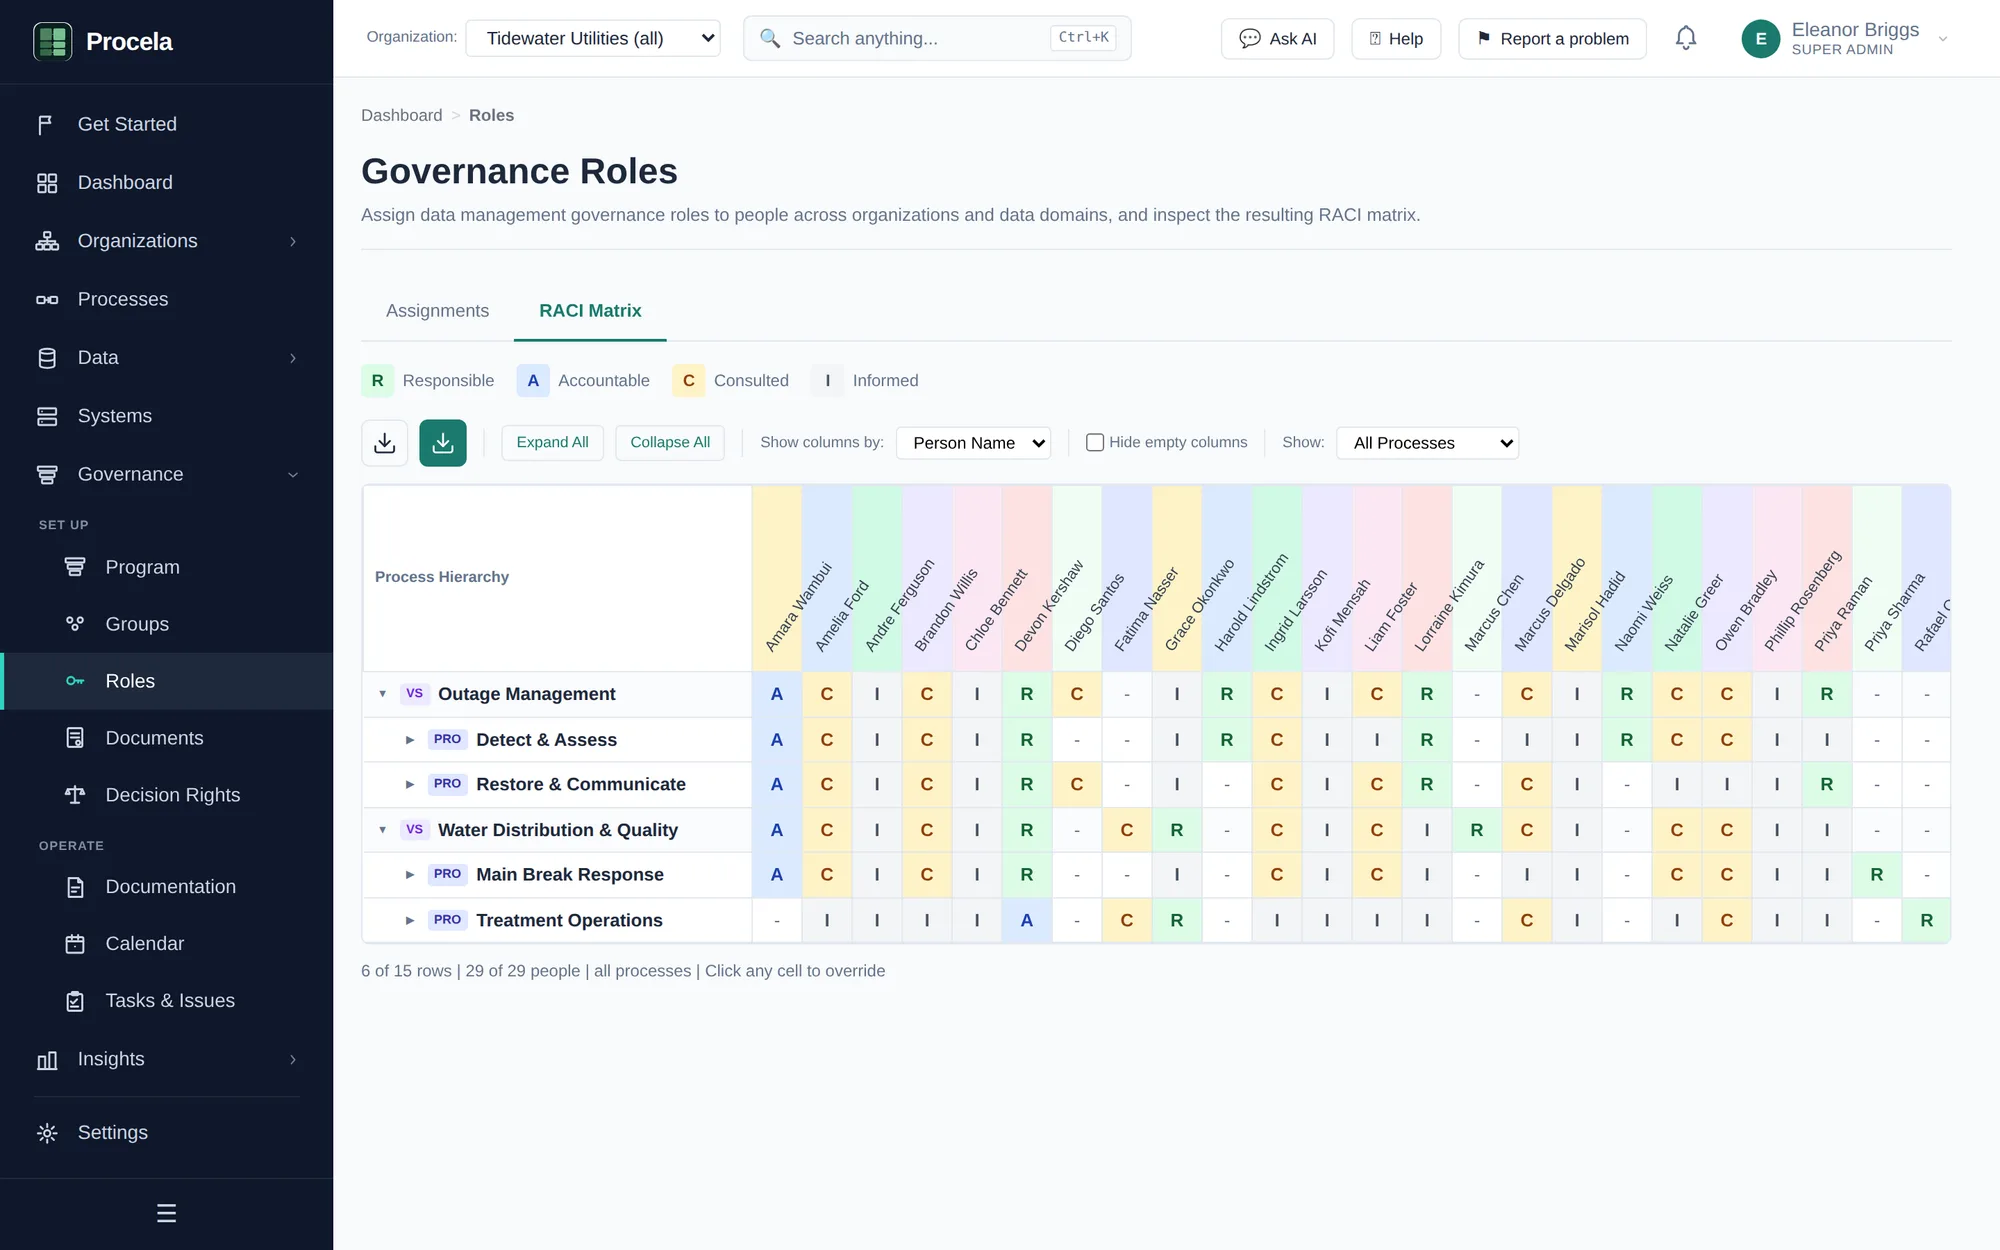
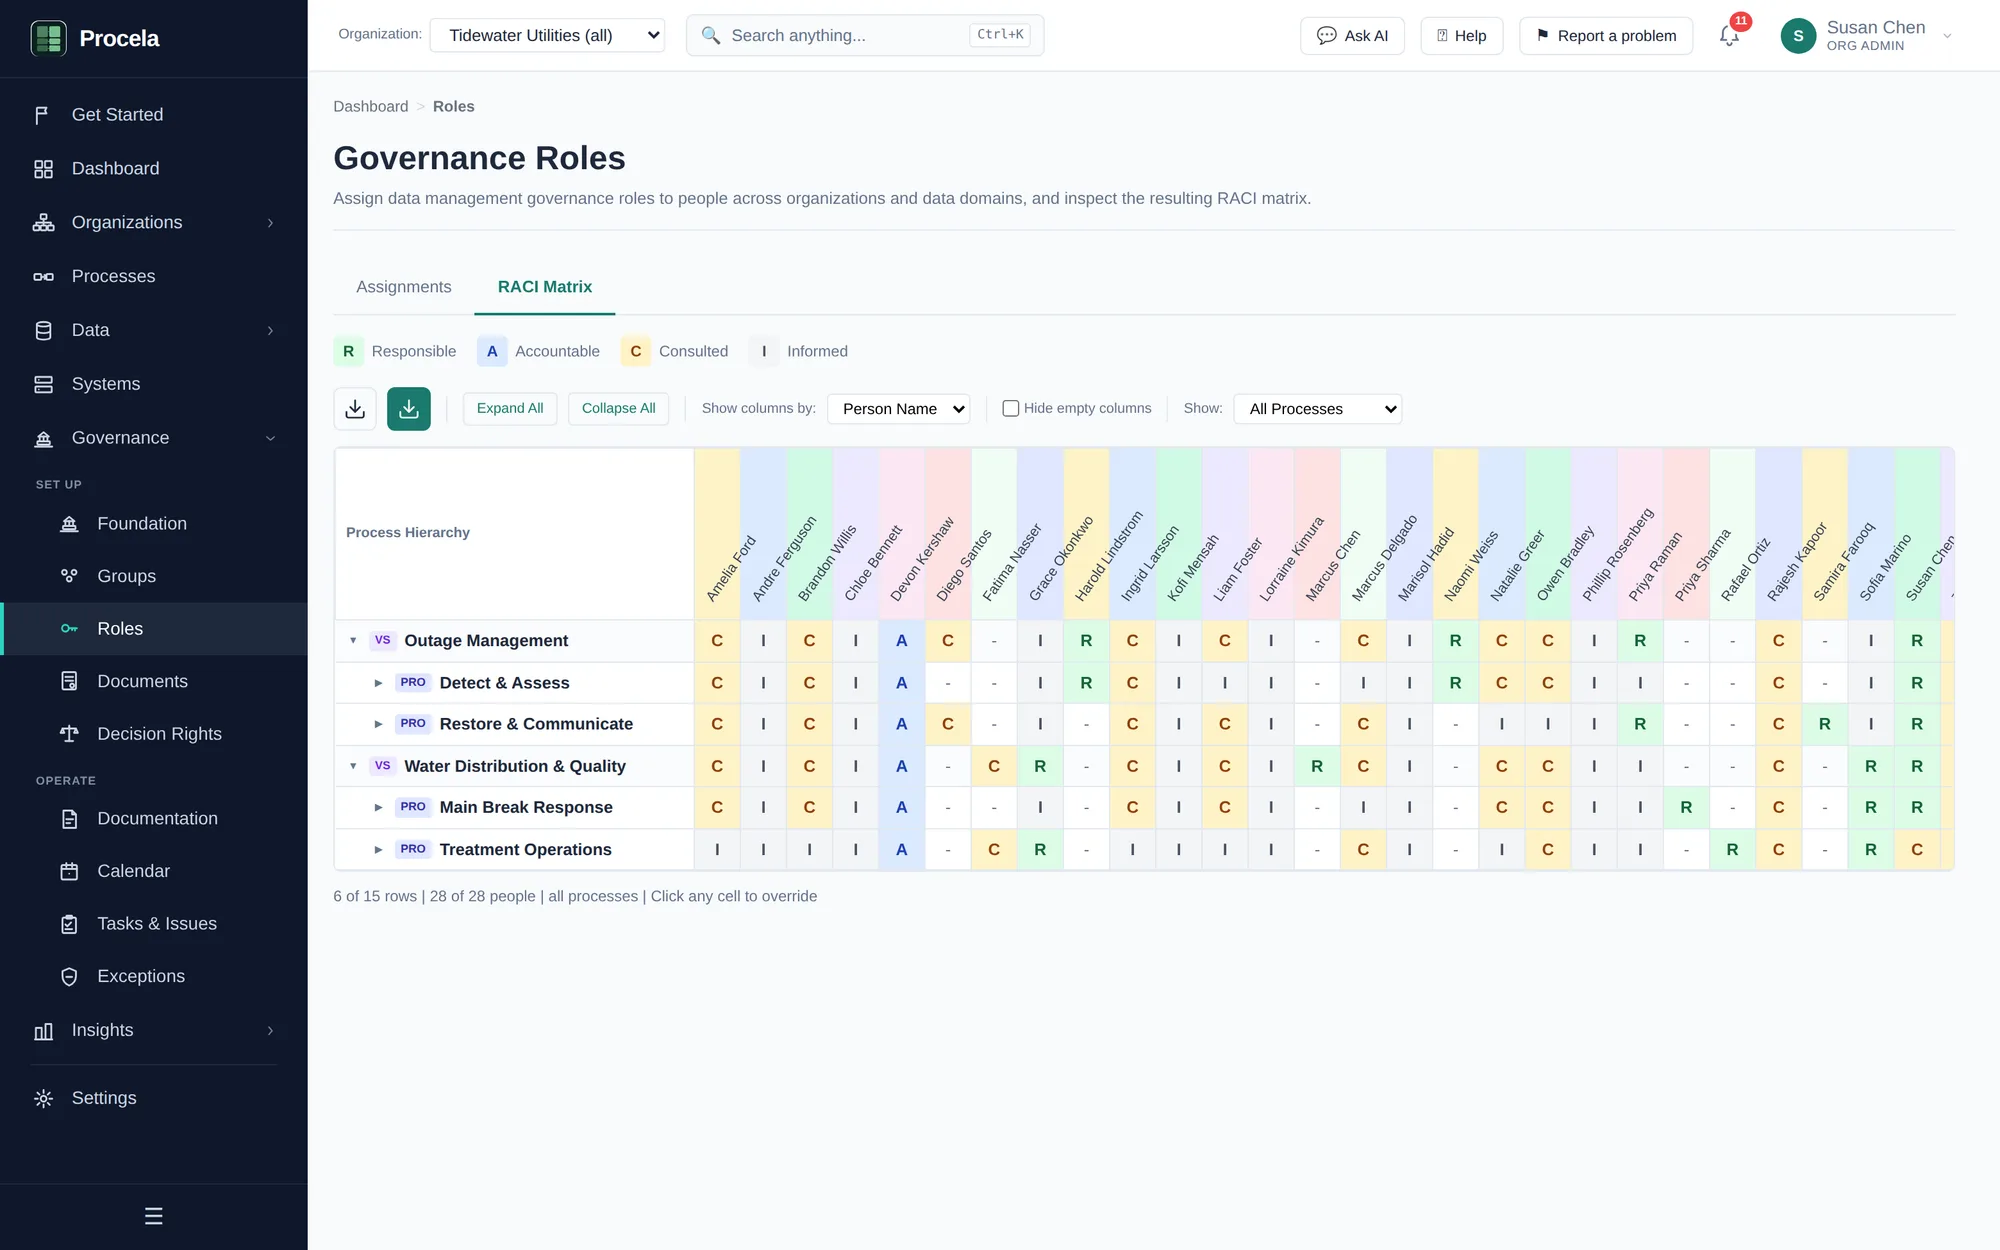
Refresh product screenshots to current UI (#53)
Re-capture the six screenshots still showing the older product UI, from
the current app against freshly seeded Tidewater demo data:

- orgs.webp — expanded company/division/department hierarchy with people counts
- domains.webp — domain list with owner, stewards, and member assets detail
- people.webp — directory with app roles, governance roles, and titles
- agents.webp — non-human actors (AI, pipeline, bot, service account) with type/status
- raci.webp — RACI matrix over the process hierarchy, color-coded R/A/C/I
- gaps.webp — gap detection grid by category and severity

Also update the gap-detection alt text to match the current category grid.

Claude-Session: https://claude.ai/code/session_01KJa1GsMMHLvb8vFejFkGtX

diff --git a/app/security/page.tsx b/app/security/page.tsx
@@ -148,7 +148,7 @@ export default function SecurityPage() {
             </div>
             <BrowserFrame
               src="/screenshots/gaps.webp"
-              alt="Procela gap detection view showing total, critical, and warning governance gaps with an ownership-gap breakdown."
+              alt="Procela gap detection view showing total, critical, warning, and informational governance gaps broken down by category — ungoverned assets, unowned domains, orphaned assets, and unassigned people."
             />
           </div>
         </div>
